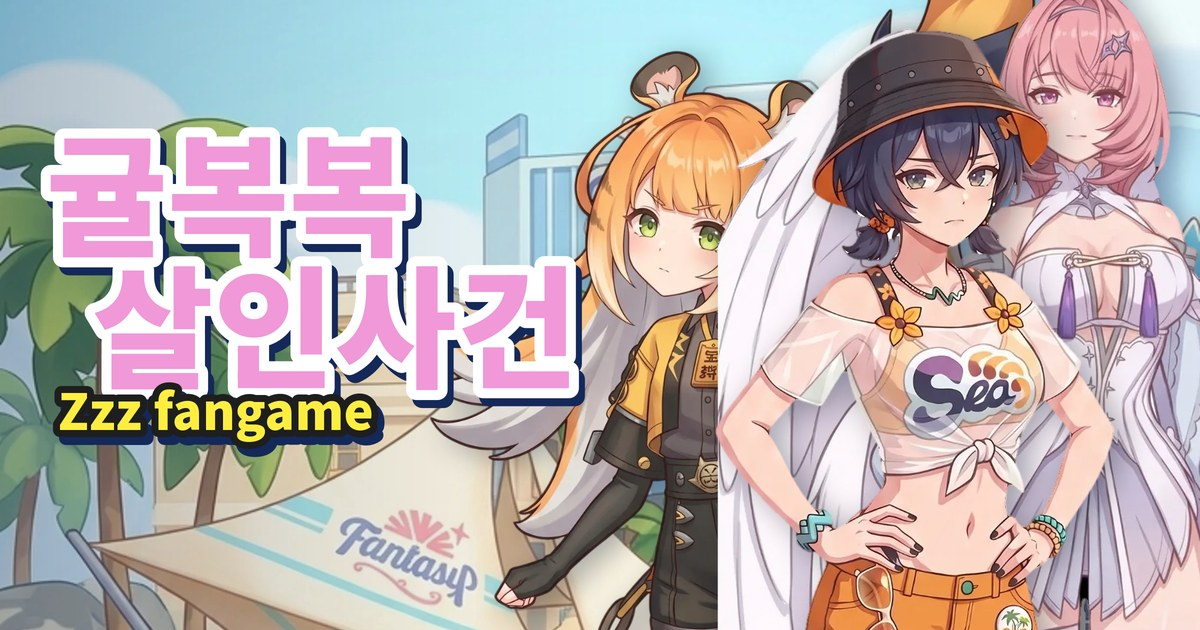
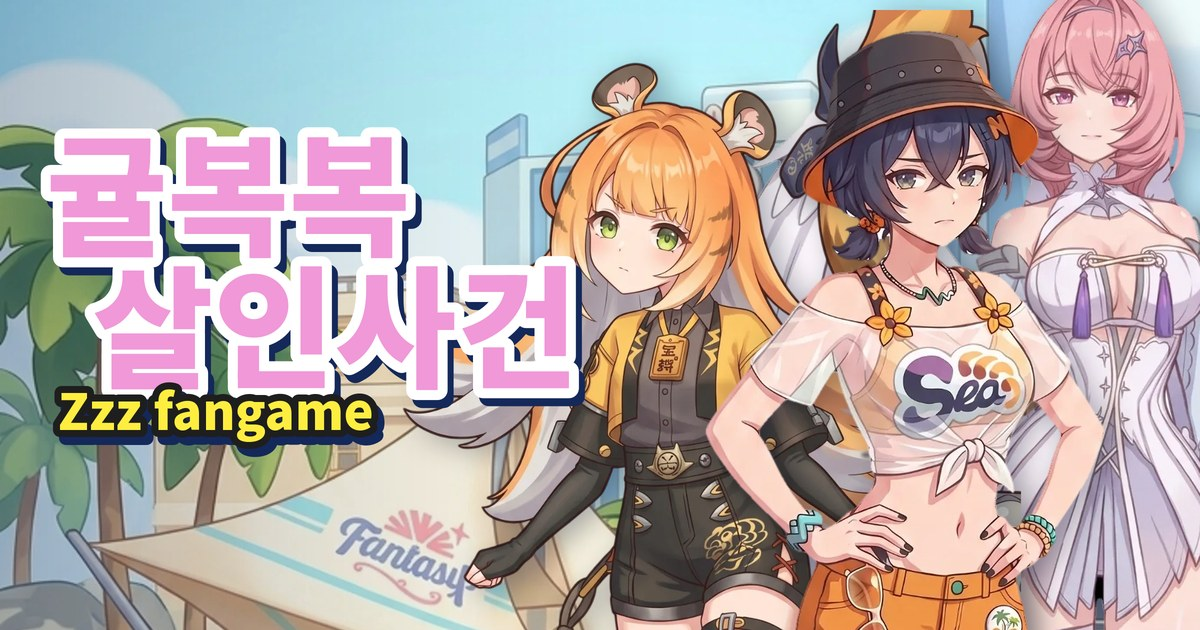
[공유 정보] 공유 그림에서 귤복복을 레미엘 앞으로 (잘린 날개 선 가림)
Claude-Session: https://claude.ai/code/session_012RTiE4QZxQZuSyE8EWVDee

diff --git a/docs/공유정보_파비콘_보고서.md b/docs/공유정보_파비콘_보고서.md
@@ -7,7 +7,7 @@
 | 항목 | 내용 |
 |---|---|
 | 설명 문구 | `젠레스 존 제로의 무료 팬게임, 바로 즐겨보세요` (사용자가 정함) |
-| 미리보기 그림 | `images/share-card.jpg` (1200×630, 177KB). 해변 배경 위에 제목 로고(타이틀 그림과 같은 분홍 글씨에 흰 테두리, 노란 `Zzz fangame`)와 귤복복, 벨, 레미엘 |
+| 미리보기 그림 | `images/share-card.jpg` (1200×630, 184KB). 해변 배경 위에 제목 로고(타이틀 그림과 같은 분홍 글씨에 흰 테두리, 노란 `Zzz fangame`)와 귤복복, 벨, 레미엘. 레미엘 그림은 왼쪽 날개가 원본에서 세로로 잘려 있어서, 귤복복을 레미엘 앞에 세워 그 잘린 선이 안 보이게 했어(가려지지 않은 줄 0) |
 | 파비콘 | `favicon.ico`(16, 32, 48px, 저장소 맨 위), `images/favicon.png`(64px), `images/apple-touch-icon.png`(180px, 아이폰 홈 화면용). 귤복복 얼굴에 게임의 청록색 배경 |
 | 그 밖에 | `<html lang="ko">`(스크립트로 설정), 브라우저 주소창 색(`theme-color`, 게임의 짙은 남색) |
 
